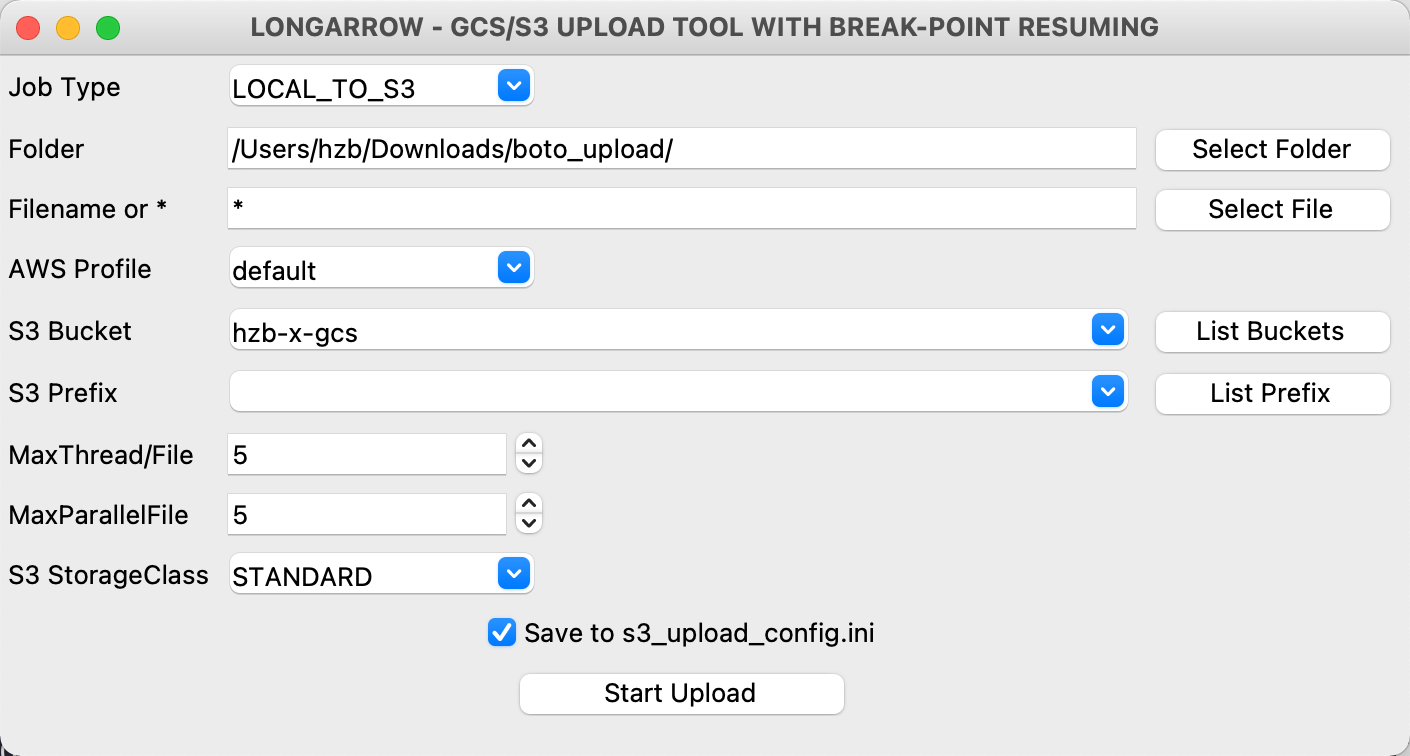
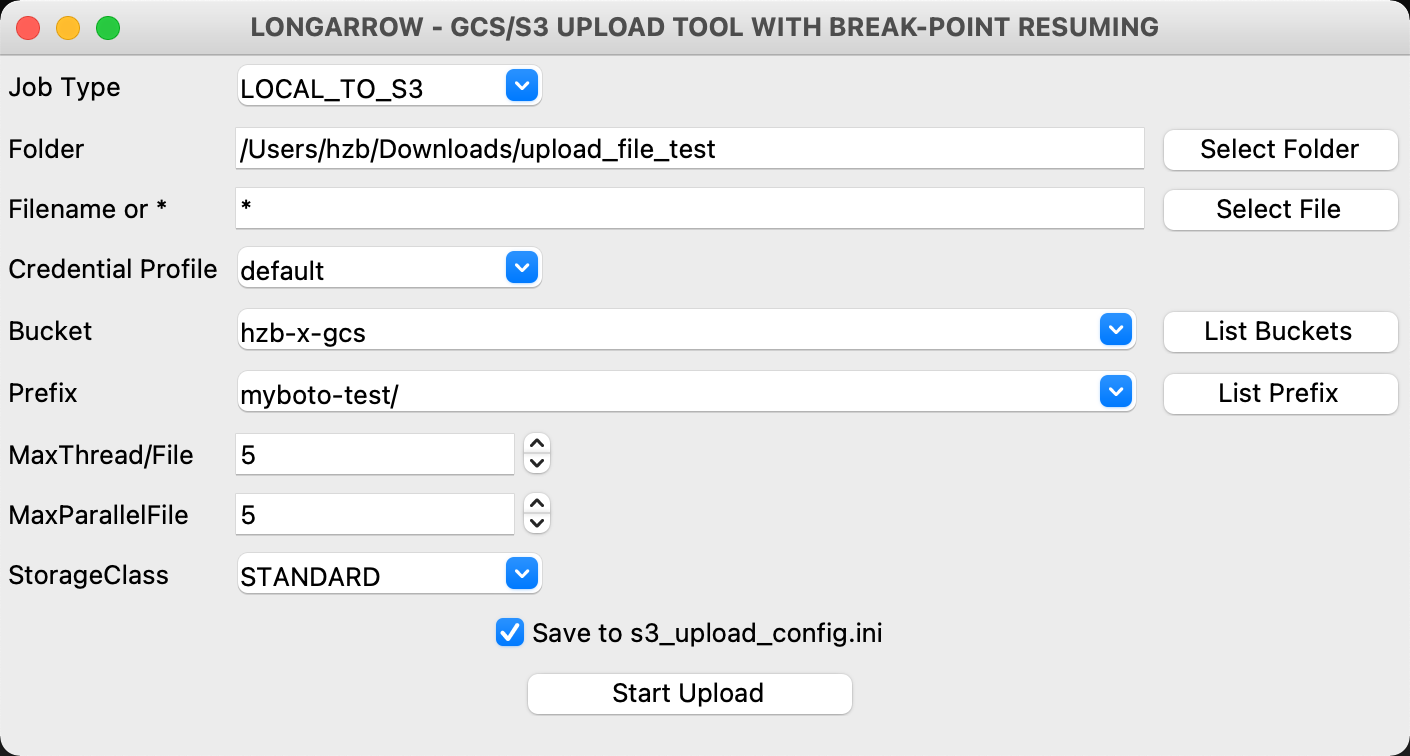
update credential auto promote

diff --git a/s3_upload.py b/s3_upload.py
@@ -96,6 +96,30 @@ def set_config():
         input('PRESS ENTER TO QUIT')
         sys.exit(0)
 
+    # If no HMAC(access_key) credential
+    pro_conf = RawConfigParser()
+    pro_path = os.path.join(os.path.expanduser("~"), ".aws")
+    cre_path = os.path.join(pro_path, "credentials")
+    if os.path.exists(cre_path):
+        pro_conf.read(cre_path)
+        profile_list = pro_conf.sections()
+    else:
+        print(f"There is no aws_access_key in {cre_path}, please input for Destination S3 Bucket: ")
+        if not os.path.exists(pro_path):
+            os.mkdir(pro_path)
+        aws_access_key_id = input('GCS HMAC Access key(or aws_access_key_id): ')
+        aws_secret_access_key = input('GCS HMAC Secret(or aws_secret_access_key): ')
+        # region = input('region: ')
+        pro_conf.add_section('default')
+        pro_conf['default']['aws_access_key_id'] = aws_access_key_id
+        pro_conf['default']['aws_secret_access_key'] = aws_secret_access_key
+        # pro_conf['default']['region'] = region
+        profile_list = ['default']
+        with open(cre_path, 'w') as f:
+            print(f"Saving credentials to {cre_path}")
+            pro_conf.write(f)
+
+
     # GUI only well support LOCAL_TO_S3 mode, start with --gui option
     # For other JobTpe, GUI is not a prefer option since it's better run on EC2 Linux
     if gui:
@@ -103,26 +127,6 @@ def set_config():
         from tkinter import Tk, filedialog, END, StringVar, BooleanVar, messagebox
         from tkinter.ttk import Combobox, Label, Button, Entry, Spinbox, Checkbutton
         # get profile name list in ./aws/credentials
-        pro_conf = RawConfigParser()
-        pro_path = os.path.join(os.path.expanduser("~"), ".aws")
-        cre_path = os.path.join(pro_path, "credentials")
-        if os.path.exists(cre_path):
-            pro_conf.read(cre_path)
-            profile_list = pro_conf.sections()
-        else:
-            print(f"There is no aws_access_key in {cre_path}, please input for Destination S3 Bucket: ")
-            os.mkdir(pro_path)
-            aws_access_key_id = input('aws_access_key_id: ')
-            aws_secret_access_key = input('aws_secret_access_key: ')
-            region = input('region: ')
-            pro_conf.add_section('default')
-            pro_conf['default']['aws_access_key_id'] = aws_access_key_id
-            pro_conf['default']['aws_secret_access_key'] = aws_secret_access_key
-            pro_conf['default']['region'] = region
-            profile_list = ['default']
-            with open(cre_path, 'w') as f:
-                print(f"Saving credentials to {cre_path}")
-                pro_conf.write(f)
 
         # Click Select Folder
         def browse_folder():
@@ -242,7 +246,7 @@ def set_config():
         file_btn.grid(column=2, row=2, sticky='w', padx=2, pady=2)
         file_txt.insert(0, SrcFileIndex)
 
-        Label(window, text="AWS Profile").grid(column=0, row=3, sticky='w', padx=2, pady=2)
+        Label(window, text="Credential Profile").grid(column=0, row=3, sticky='w', padx=2, pady=2)
         DesProfileName_txt = Combobox(window, width=15, state="readonly")
         DesProfileName_txt['values'] = tuple(profile_list)
         DesProfileName_txt.grid(column=1, row=3, sticky='w', padx=2, pady=2)
@@ -254,7 +258,7 @@ def set_config():
         DesProfileName = DesProfileName_txt.get()
         DesProfileName_txt.bind("<<ComboboxSelected>>", ListBuckets)
 
-        Label(window, text="S3 Bucket").grid(column=0, row=4, sticky='w', padx=2, pady=2)
+        Label(window, text="Bucket").grid(column=0, row=4, sticky='w', padx=2, pady=2)
         DesBucket_txt = Combobox(window, width=48)
         DesBucket_txt.grid(column=1, row=4, sticky='w', padx=2, pady=2)
         DesBucket_txt['values'] = DesBucket
@@ -262,7 +266,7 @@ def set_config():
         Button(window, text="List Buckets", width=10, command=ListBuckets) \
             .grid(column=2, row=4, sticky='w', padx=2, pady=2)
 
-        Label(window, text="S3 Prefix").grid(column=0, row=5, sticky='w', padx=2, pady=2)
+        Label(window, text="Prefix").grid(column=0, row=5, sticky='w', padx=2, pady=2)
         S3Prefix_txt = Combobox(window, width=48)
         S3Prefix_txt.grid(column=1, row=5, sticky='w', padx=2, pady=2)
         S3Prefix_txt['values'] = S3Prefix
@@ -287,7 +291,7 @@ def set_config():
         MaxParallelFile_txt = Spinbox(window, from_=1, to=100, width=15, textvariable=var_f)
         MaxParallelFile_txt.grid(column=1, row=7, sticky='w', padx=2, pady=2)
 
-        Label(window, text="S3 StorageClass").grid(column=0, row=8, sticky='w', padx=2, pady=2)
+        Label(window, text="StorageClass").grid(column=0, row=8, sticky='w', padx=2, pady=2)
         StorageClass_txt = Combobox(window, width=15, state="readonly")
         StorageClass_txt['values'] = tuple(StorageClass_list)
         StorageClass_txt.grid(column=1, row=8, sticky='w', padx=2, pady=2)
